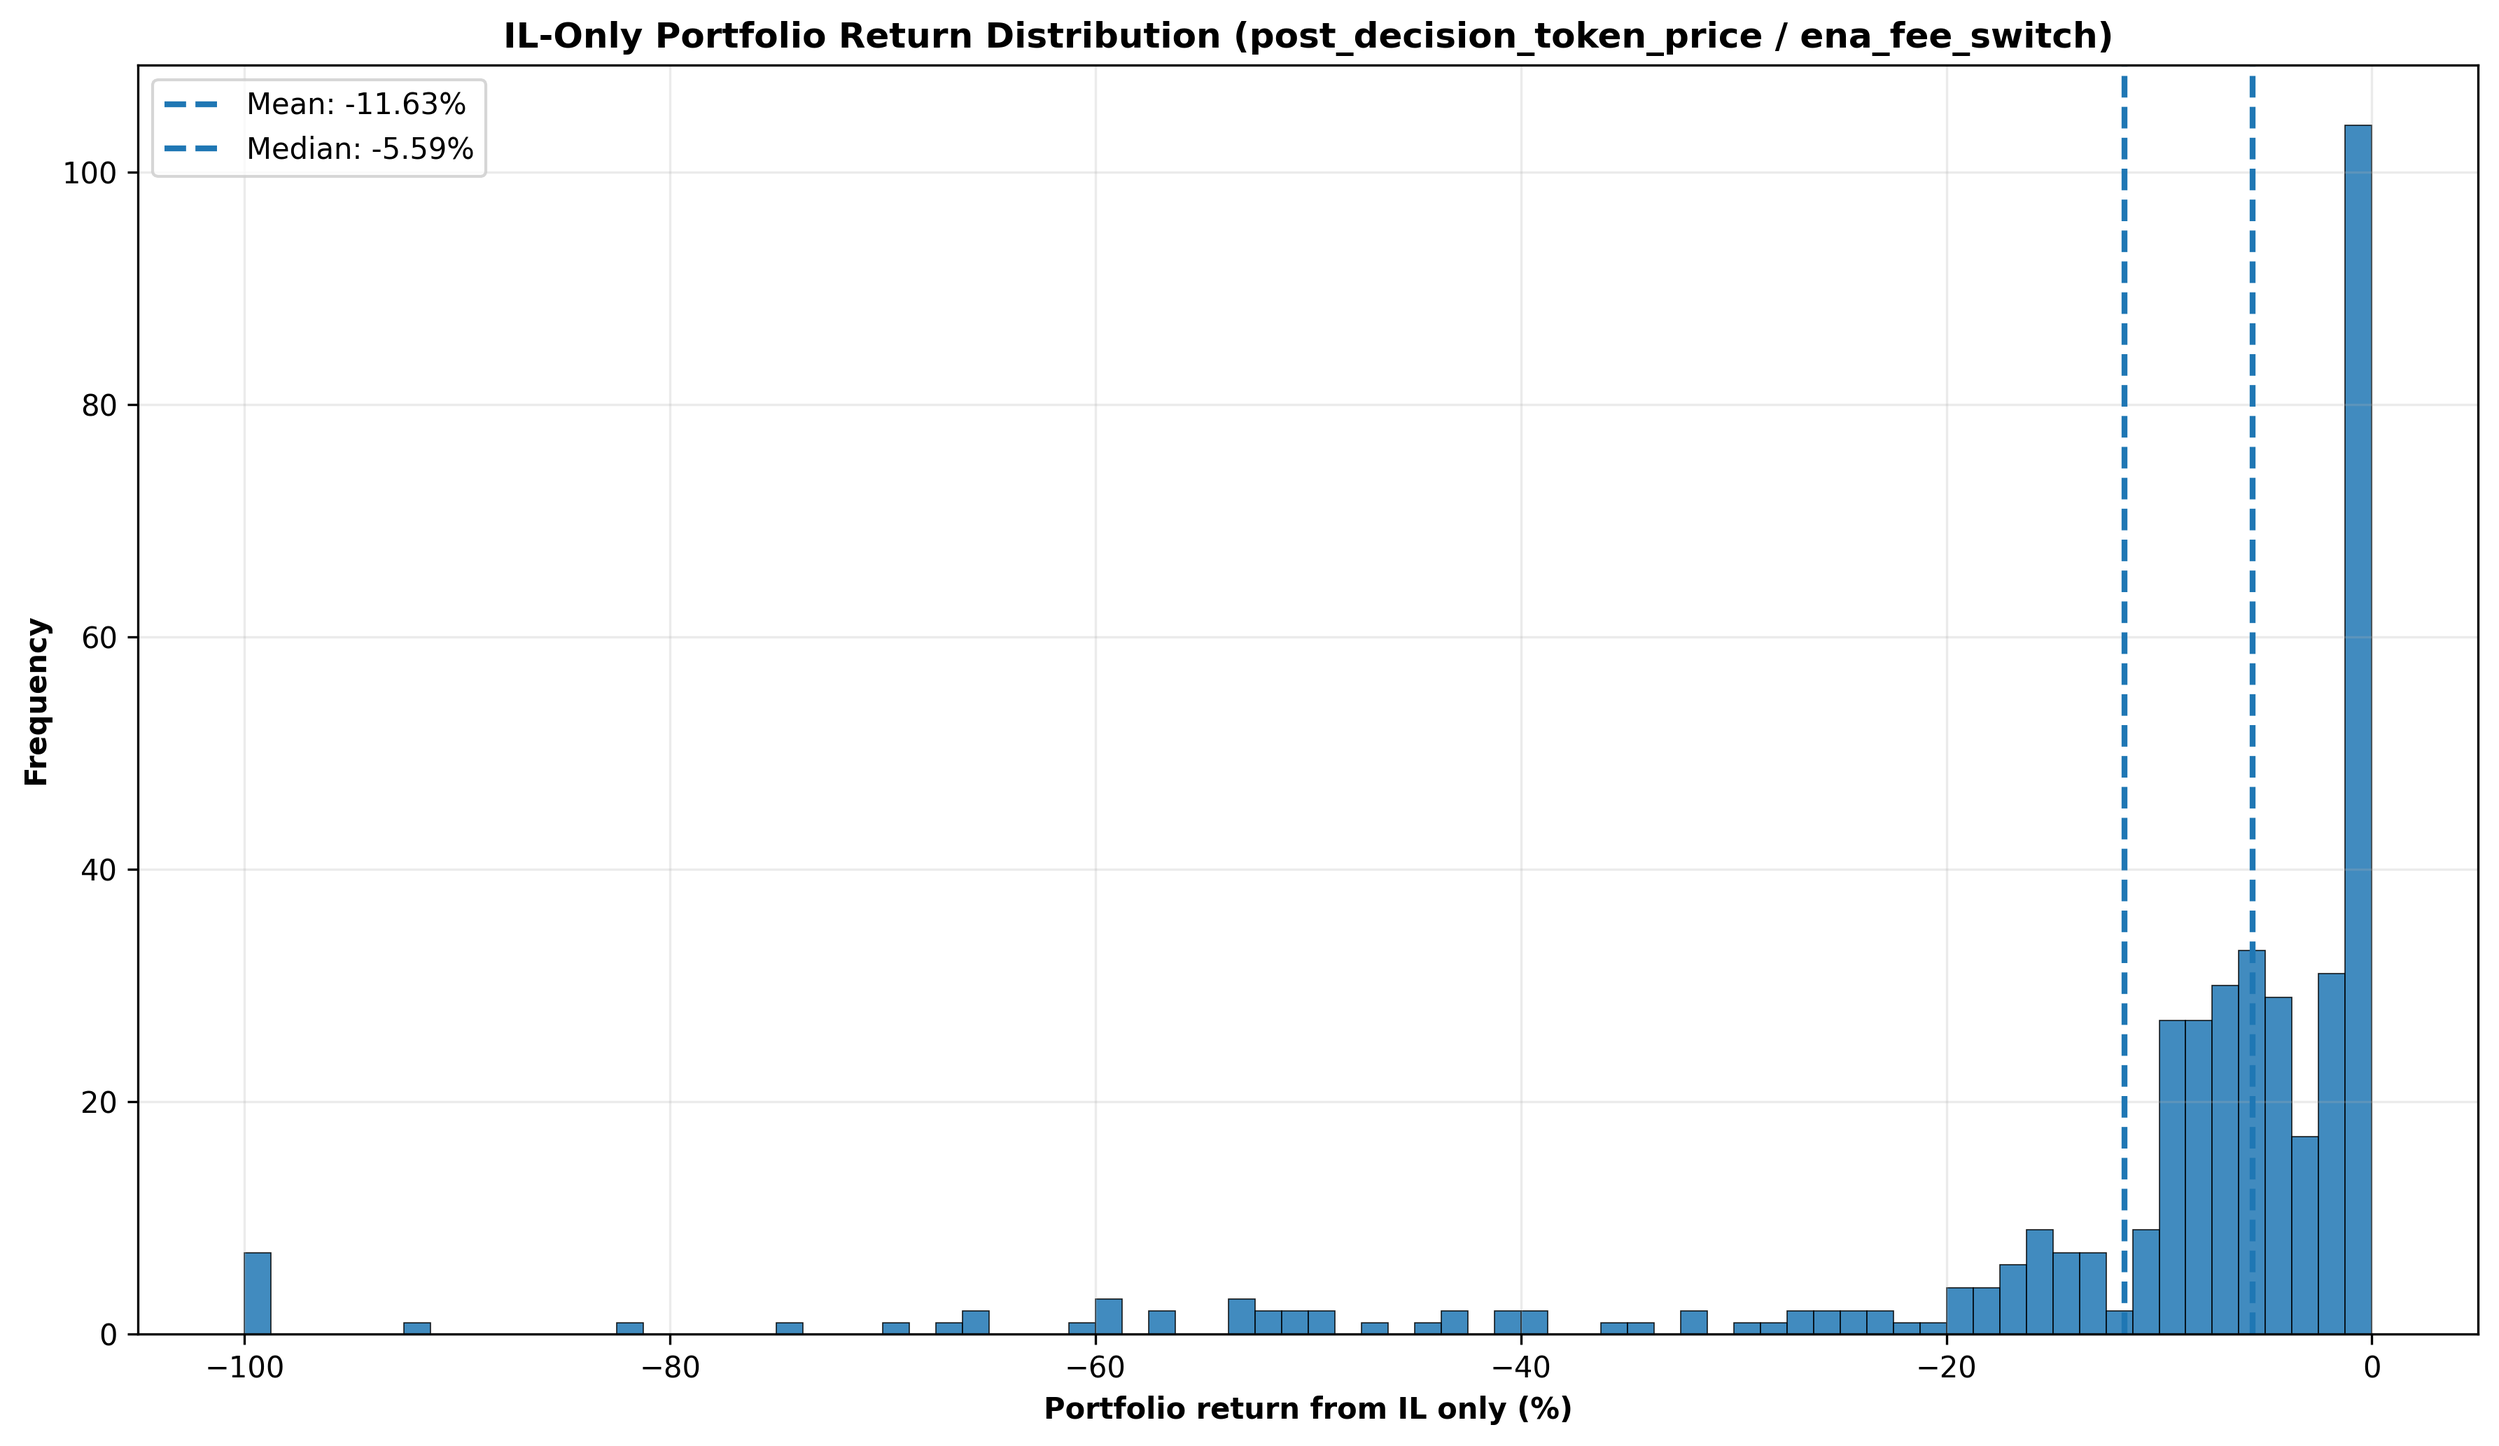
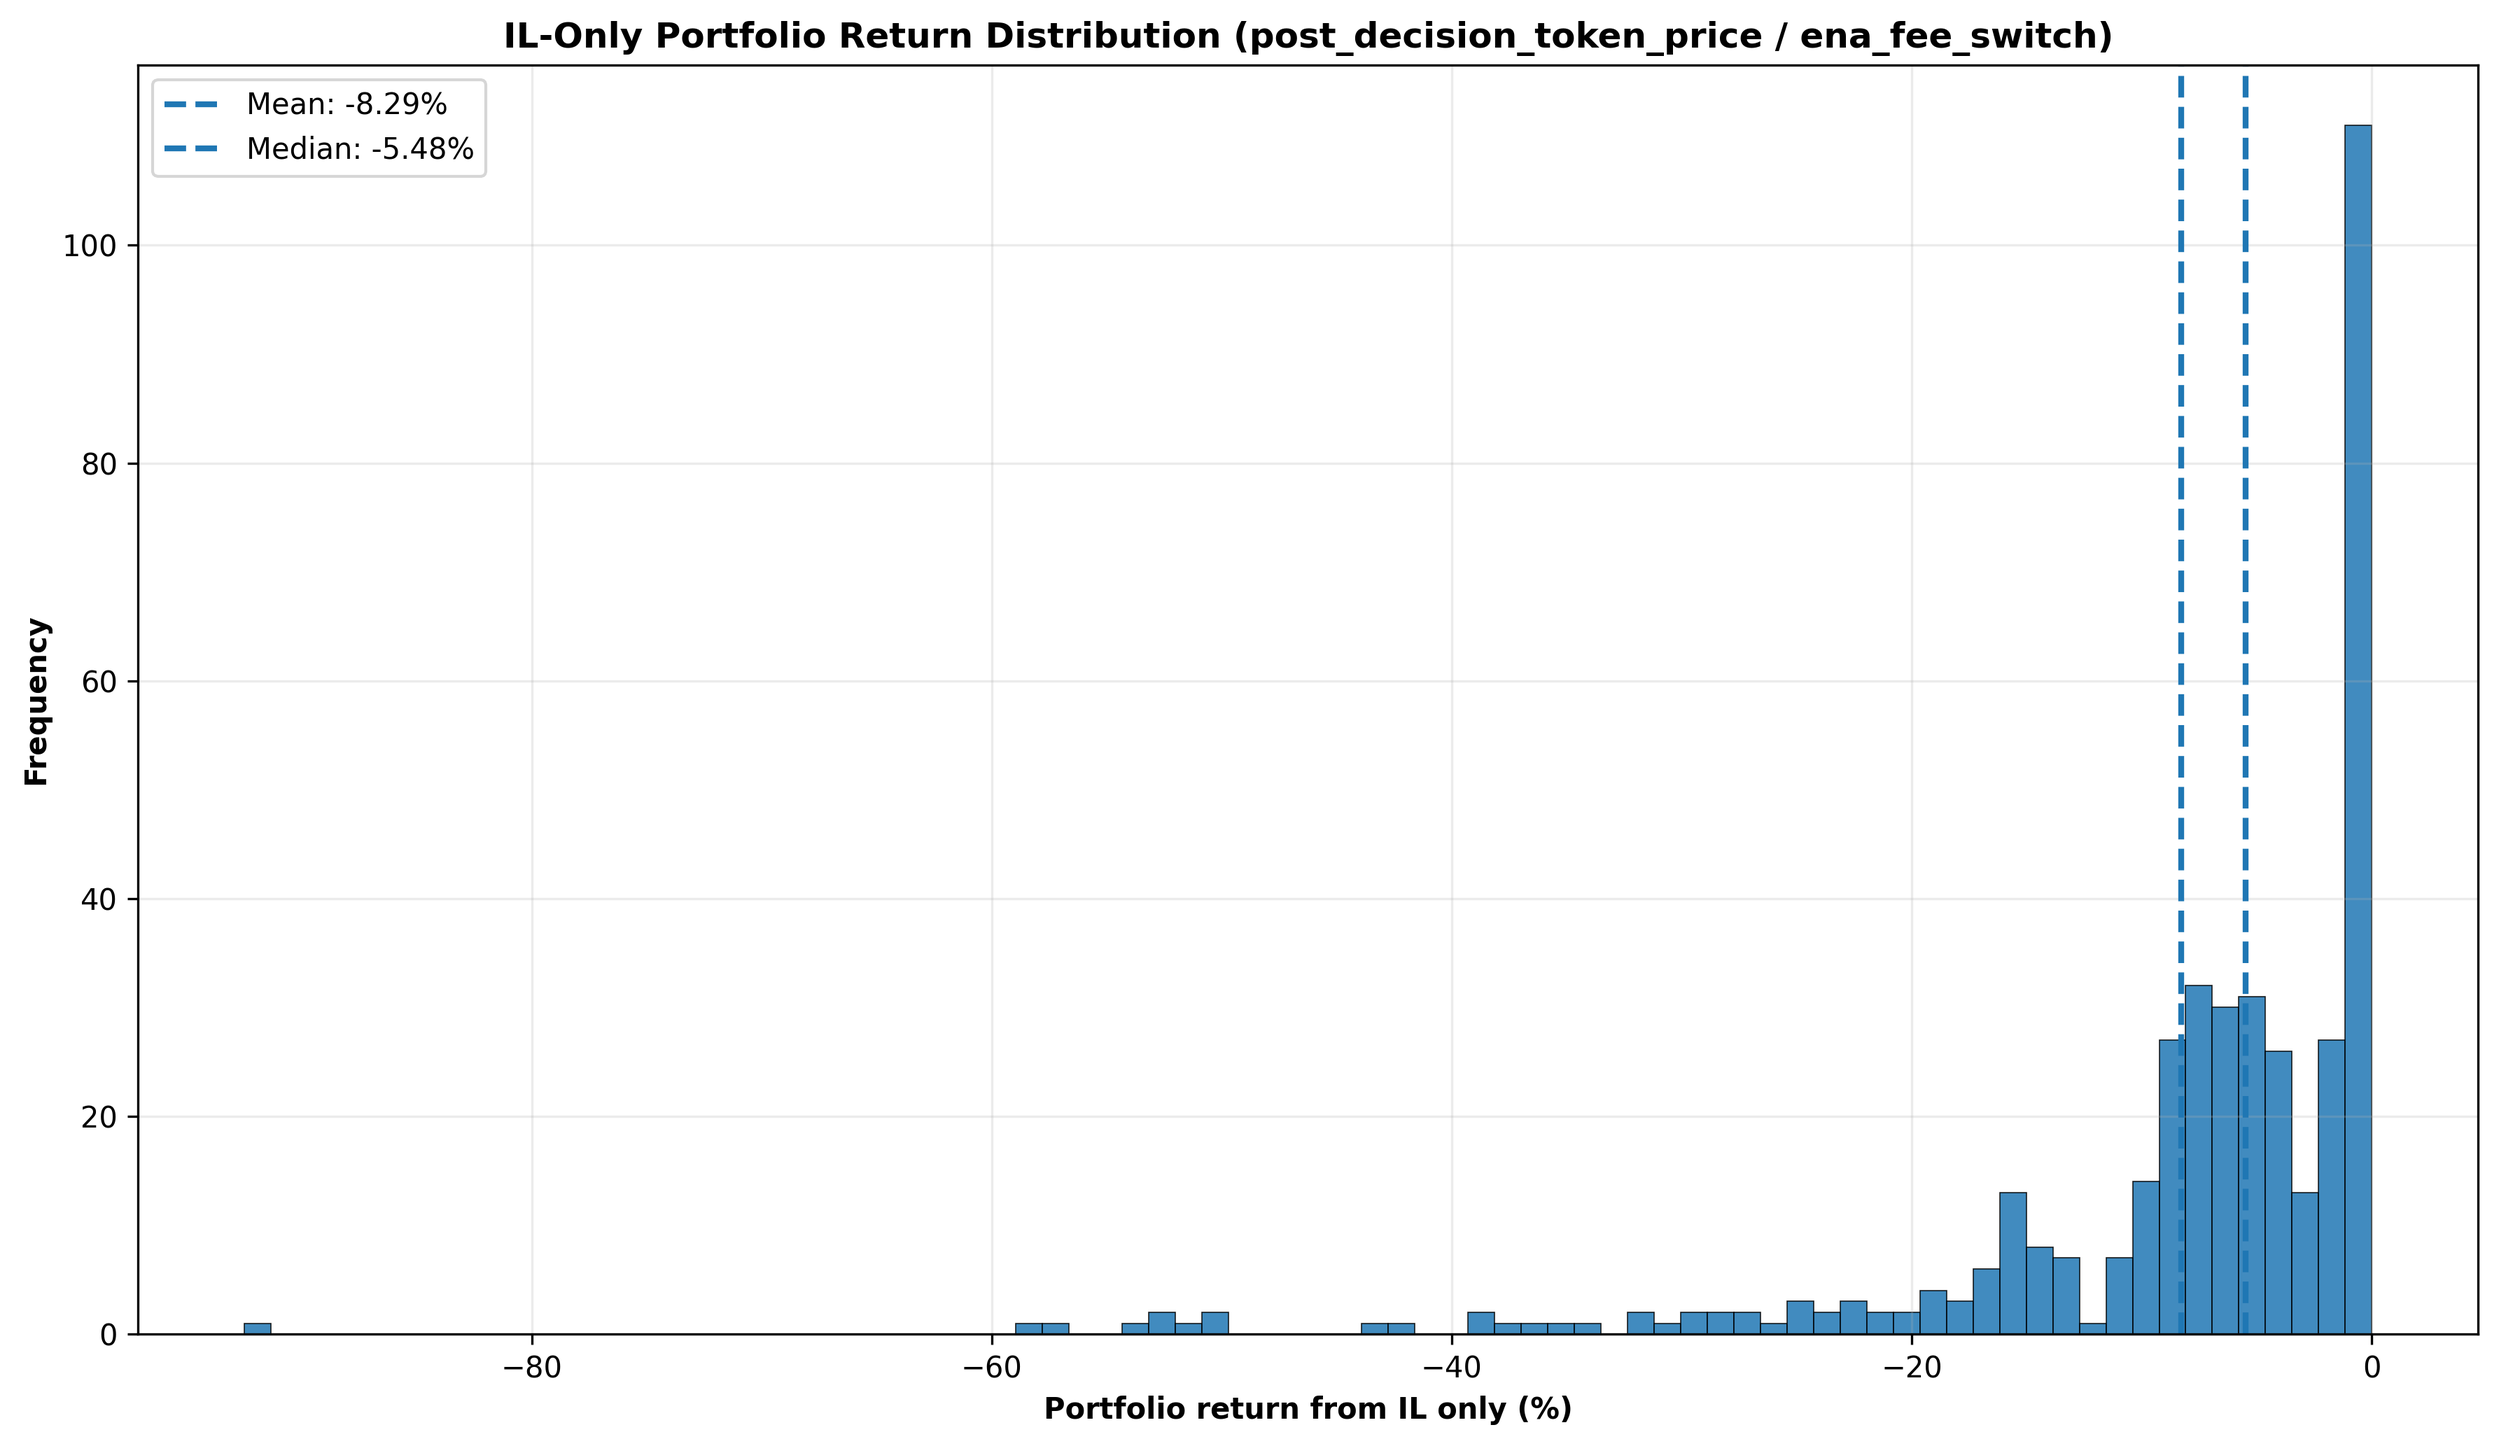
il_by_window.csv il_hist.png il_report.md il_timeseries.png

diff --git a/post_decision_token_price/ena_fee_switch/2025-09-17-to-2025-10-01/il_report.md b/post_decision_token_price/ena_fee_switch/2025-09-17-to-2025-10-01/il_report.md
@@ -47,7 +47,7 @@ We simulate starting at each historical window strictly earlier than the cutoff 
 We **exclude** very early windows until a minimum history (processing.min_historical_data_months) has elapsed to avoid unstable bounds.
 
 ## Important
-- **Mean** -11.63% and **median** -5.59% IL-only returns are shown below.
+- **Mean** -8.29% and **median** -5.48% IL-only returns are shown below.
 - These IL losses must be compared to incentive APY to calculate your net returns.
 
 ## Portfolio Performance
@@ -62,8 +62,8 @@ This time series shows how IL-only portfolio returns have varied across differen
 ### Distribution Summary (IL-only, %)
 
 - Count: **399**
-- Mean: **-11.63%**, Std: **18.96%**
-- Median: **-5.59%**  |  P25: **-10.31%**  |  P10: **-31.75%**  |  P75: **-1.16%**
+- Mean: **-8.29%**, Std: **11.12%**
+- Median: **-5.48%**  |  P25: **-9.45%**  |  P10: **-19.11%**  |  P75: **-0.97%**
 
 ## Calculating Your Net APY
 
@@ -84,13 +84,13 @@ Where:
 - **IL_Return**: Your expected impermanent loss return (as a decimal, typically negative)
 
 ### Example Calculation (Hypothetical Numbers Only):
-**Example calculation only**: Let's say Merkl shows **200% APY** (this is just an example - actual APY varies by market) and you experience the **median IL loss (-5.59%)**:
+**Example calculation only**: Let's say Merkl shows **200% APY** (this is just an example - actual APY varies by market) and you experience the **median IL loss (-5.48%)**:
 
 1. **Scale Merkl APY to period**: 200% × 0.038 = 7.7%
 2. **Convert to multiplier**: 1 + 7.7% = 1.077
-3. **Apply median IL loss**: 1.077 × (1 + -5.6%) = 1.077 × 0.944 = 1.016
-4. **Net return for 14 days**: 1.6%
-5. **Annualized (APY)**: (1.016)^26.1 - 1 = **53.2% APY**
+3. **Apply median IL loss**: 1.077 × (1 + -5.5%) = 1.077 × 0.945 = 1.018
+4. **Net return for 14 days**: 1.8%
+5. **Annualized (APY)**: (1.018)^26.1 - 1 = **58.2% APY**
 
 **Steps to use this with your actual numbers:**
 1. Find your market's Merkl campaign and note the **actual APY** (not the 200% example)
